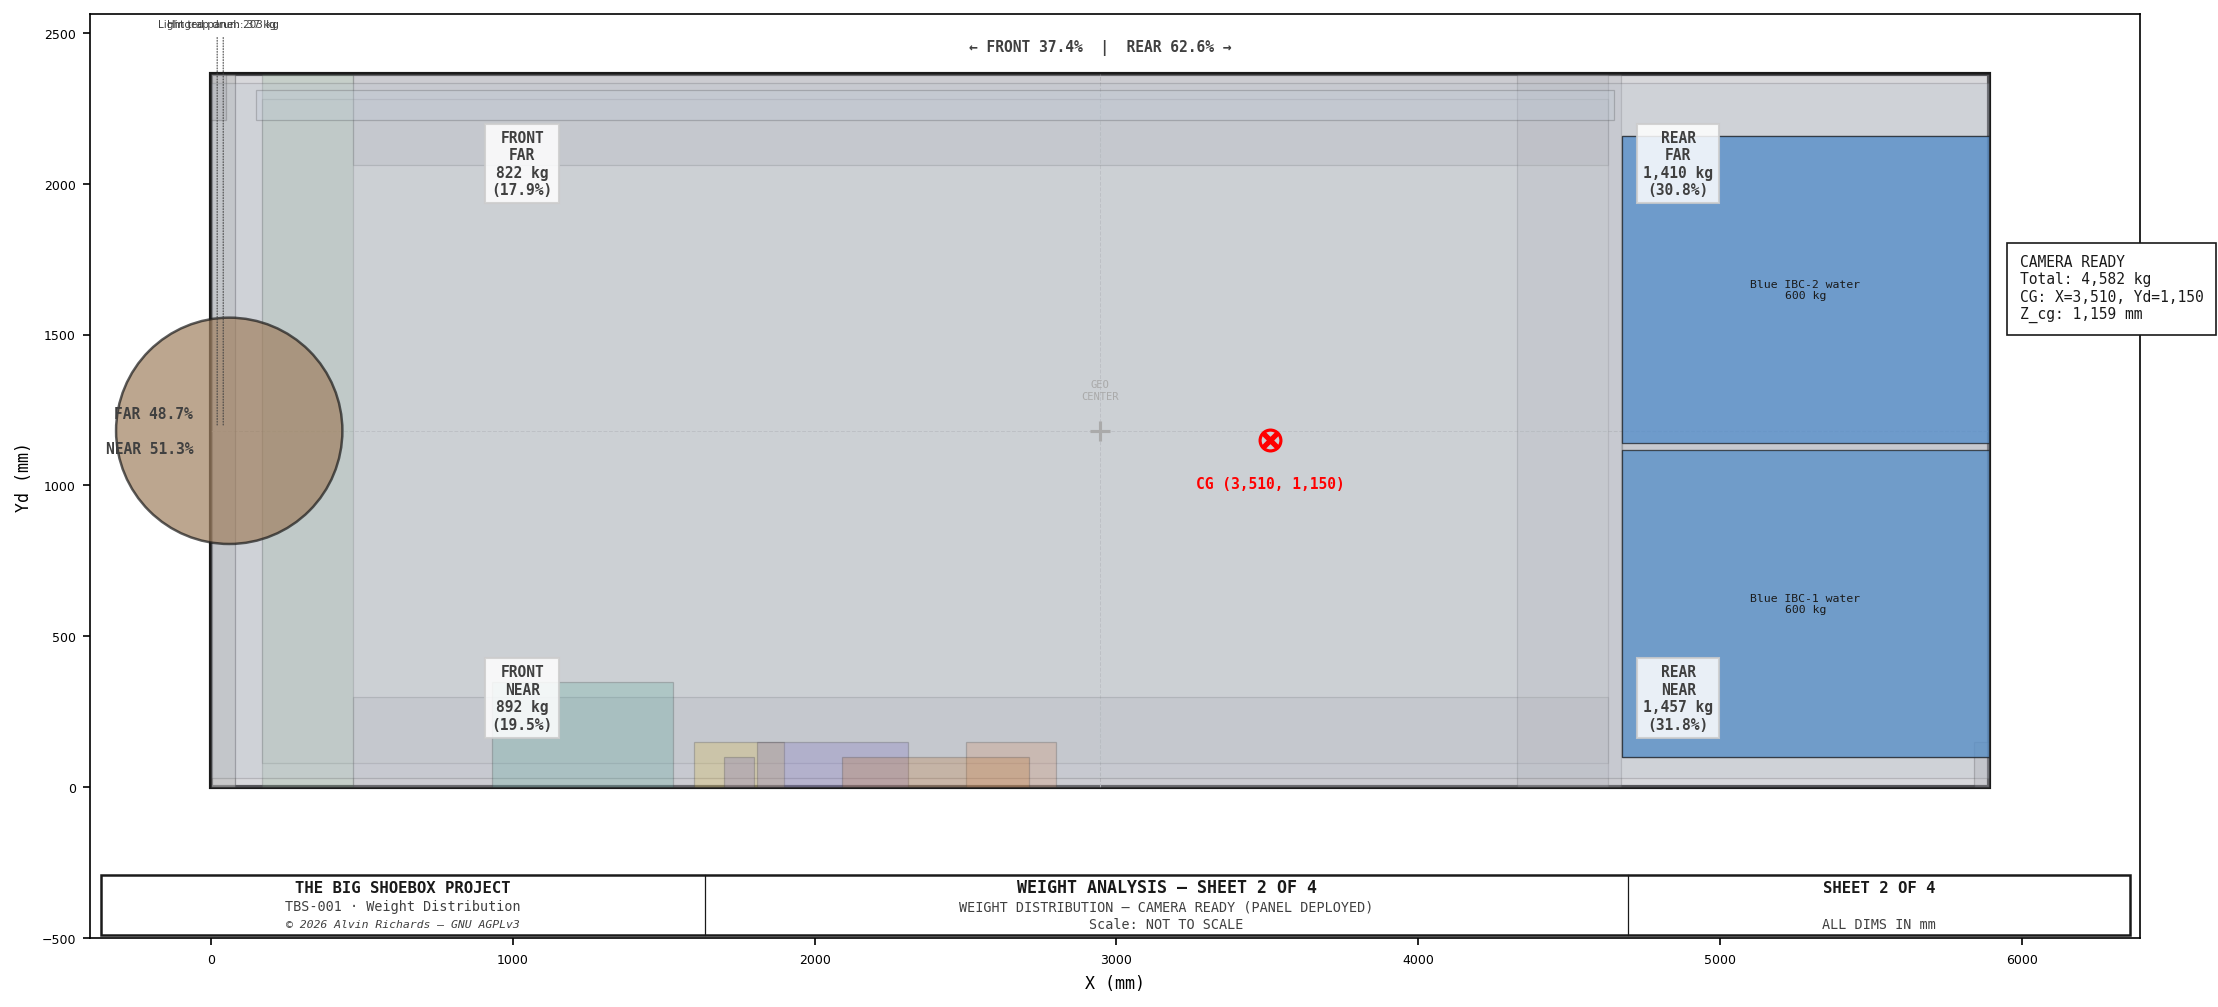
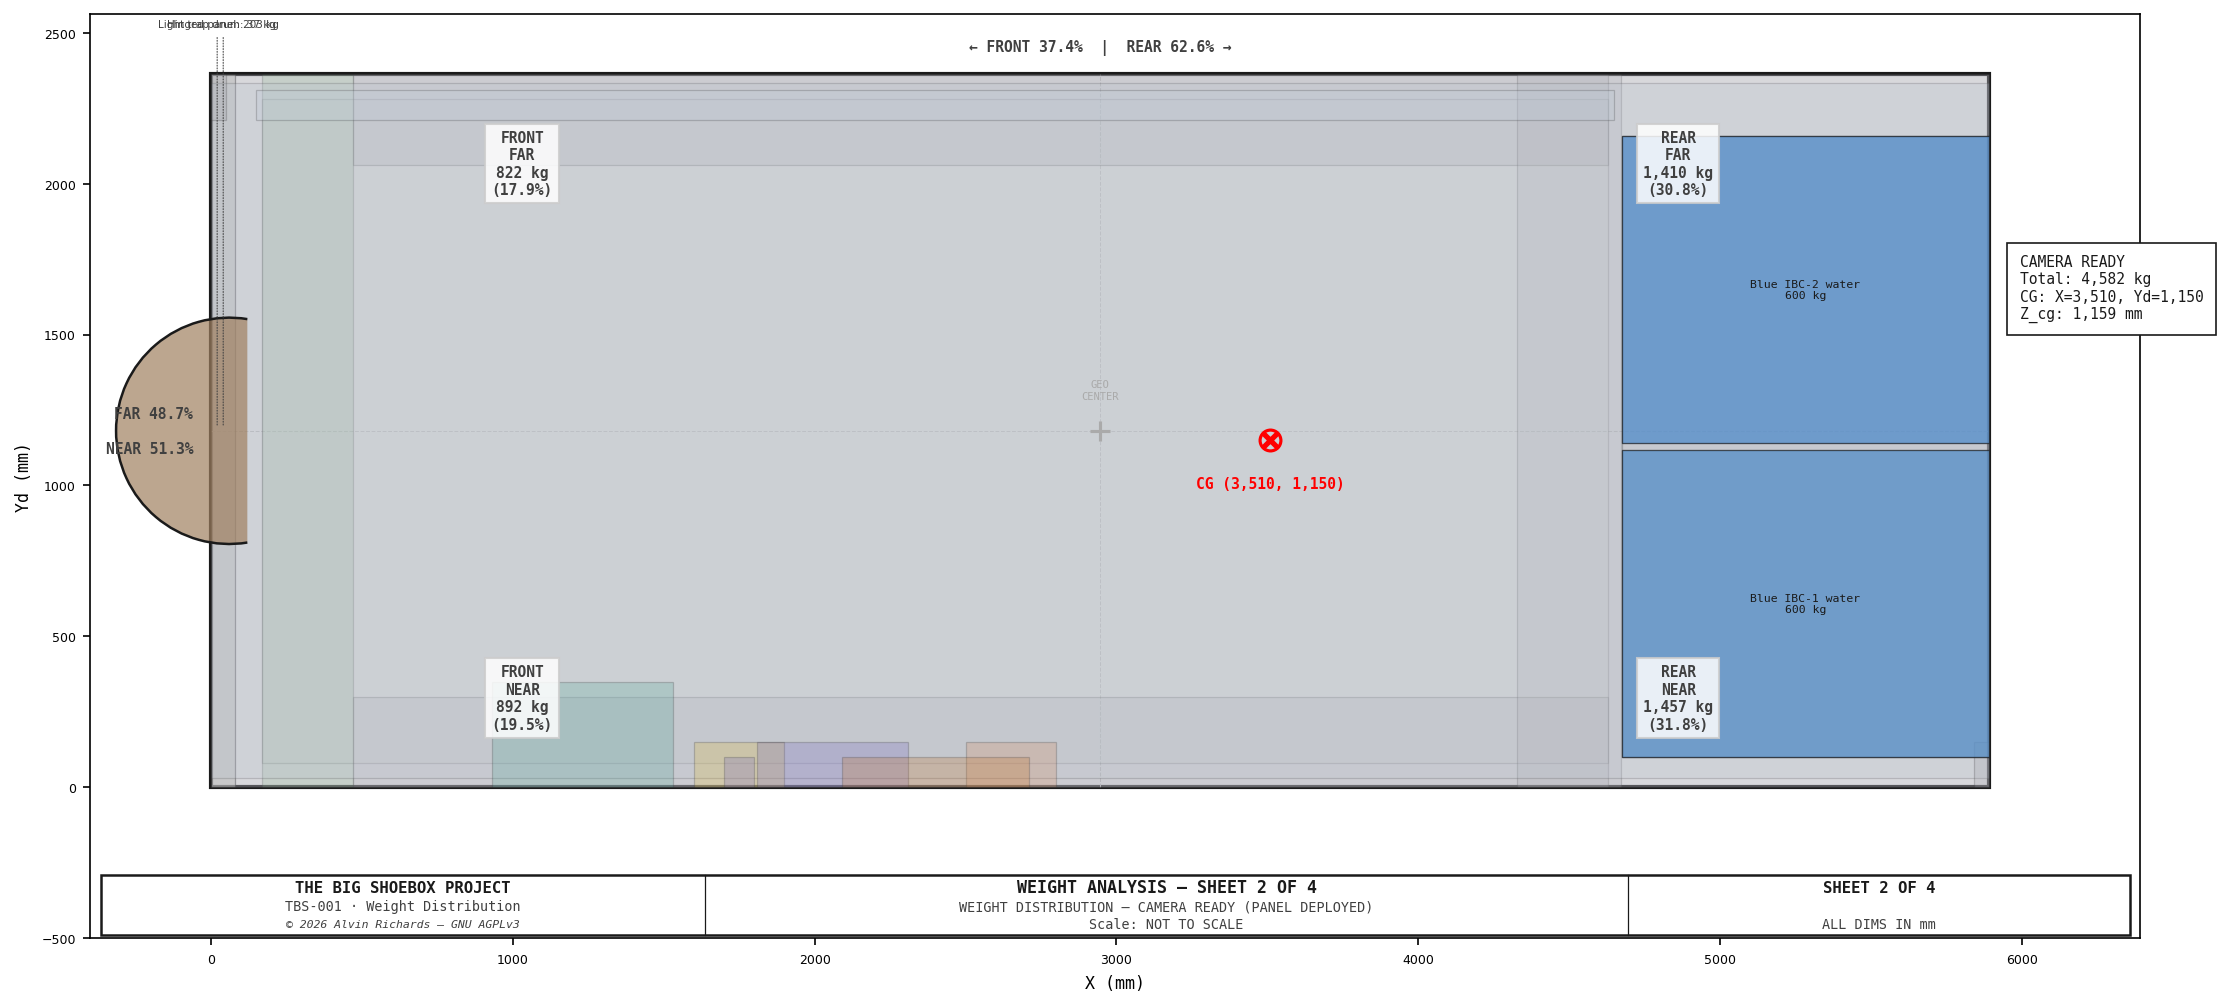
Clip drum circle to container interior on all sheets
Draw only the portion of the Ø750mm drum that falls inside X>=0,
matching the assembly overview convention. In transport position
(X=360 center) the drum is nearly fully inside with a tiny trim;
in deployed position (X=60 center) only the interior half shows.

Changed region(s): [[0.0933, 0.3078, 0.1555, 0.5541]]

diff --git a/generate_weight_analysis.py b/generate_weight_analysis.py
@@ -592,13 +592,29 @@ def sheet1(components):
     _draw_container_outline(ax)
 
     # Draw each component (no inline labels — all via leaders)
-    # Draw drum as circle separately
+    # Draw drum as circle separately, clipped to container interior
+    from matplotlib.patches import Arc
     for c in dry:
         if c.name == "Light trap drum":
             drum_cx = PANEL_SLIDE + PANEL_CENTER_T / 2  # transport position
             drum_cy = C_WID / 2
-            ax.add_patch(Circle((drum_cx, drum_cy), DRUM_R,
-                         fc="#A08060", ec=C_OUT, lw=1.2, alpha=0.7, zorder=7))
+            # Clip: only draw the arc that falls inside X>=0
+            import math
+            overshoot = max(0, DRUM_R - drum_cx)  # how far past X=0
+            if overshoot > 0:
+                clip_angle = math.degrees(math.acos((drum_cx) / DRUM_R))
+                ax.add_patch(Arc((drum_cx, drum_cy), DRUM_D, DRUM_D,
+                             angle=0, theta1=clip_angle, theta2=360 - clip_angle,
+                             ec=C_OUT, lw=1.2, zorder=7))
+                # Fill with a polygon approximation
+                angles = np.linspace(np.radians(clip_angle),
+                                     np.radians(360 - clip_angle), 100)
+                xs = drum_cx + DRUM_R * np.cos(angles)
+                ys = drum_cy + DRUM_R * np.sin(angles)
+                ax.fill(xs, ys, fc="#A08060", alpha=0.7, ec="none", zorder=6)
+            else:
+                ax.add_patch(Circle((drum_cx, drum_cy), DRUM_R,
+                             fc="#A08060", ec=C_OUT, lw=1.2, alpha=0.7, zorder=7))
         else:
             _draw_component(ax, c, alpha=0.5, show_label=False)
 
@@ -723,8 +739,23 @@ def _draw_state_diagram(ax, components, state, state_label):
         else:
             cx = PANEL_CENTER_T / 2  # deployed
         cy = C_WID / 2
-        ax.add_patch(Circle((cx, cy), DRUM_R,
-                     fc="#A08060", ec=C_OUT, lw=1.2, alpha=0.7, zorder=7))
+        # Clip to container interior (X>=0)
+        import math
+        overshoot = max(0, DRUM_R - cx)
+        if overshoot > 0:
+            clip_angle = math.degrees(math.acos(cx / DRUM_R))
+            from matplotlib.patches import Arc
+            ax.add_patch(Arc((cx, cy), DRUM_D, DRUM_D,
+                         angle=0, theta1=clip_angle, theta2=360 - clip_angle,
+                         ec=C_OUT, lw=1.2, zorder=7))
+            angles = np.linspace(np.radians(clip_angle),
+                                 np.radians(360 - clip_angle), 100)
+            xs = cx + DRUM_R * np.cos(angles)
+            ys = cy + DRUM_R * np.sin(angles)
+            ax.fill(xs, ys, fc="#A08060", alpha=0.7, ec="none", zorder=6)
+        else:
+            ax.add_patch(Circle((cx, cy), DRUM_R,
+                         fc="#A08060", ec=C_OUT, lw=1.2, alpha=0.7, zorder=7))
     for c in others:
         _draw_component(ax, c, alpha=0.25, show_label=False)
 
